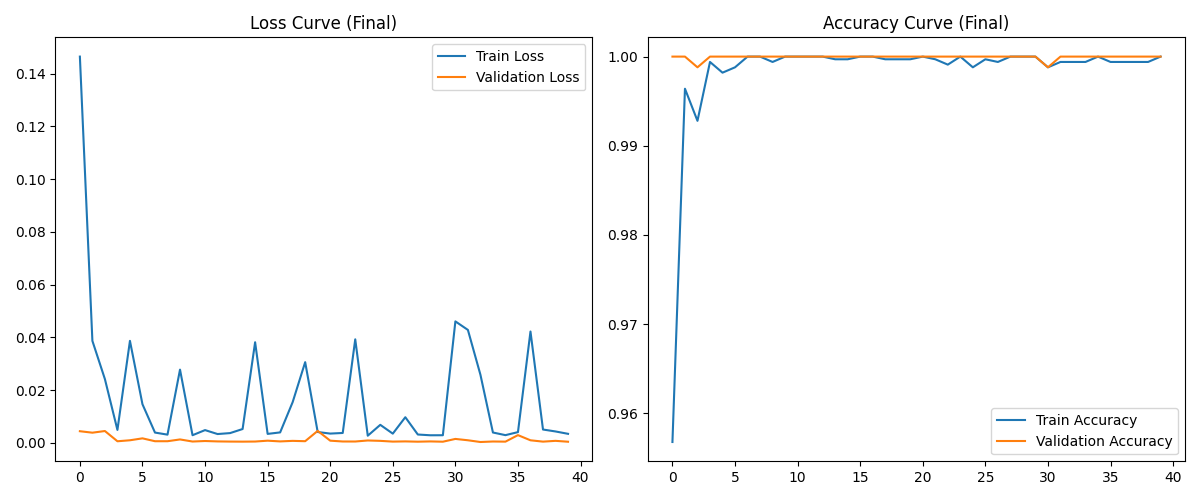
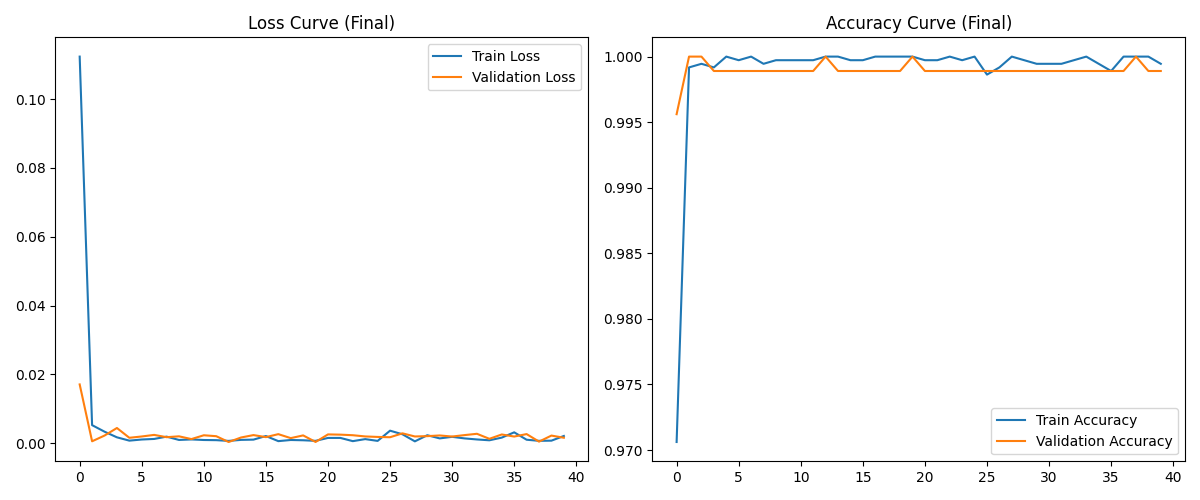
fix

diff --git a/Self-Supervised-Learning/main.py b/Self-Supervised-Learning/main.py
@@ -248,7 +248,7 @@ if __name__ == "__main__":
     model_r1, path_r1, hist_r1 = run_cnn_training(X_train, y_train, "CNN_Step1_RuleBased")
     
     # Eval Round 1
-    model_r1.load_state_dict(torch.load(path_r1, map_location=device))
+    model_r1.load_state_dict(torch.load(path_r1, map_location=device, weights_only=True))
     test_loader = make_loader(X_test, y_test, False)
     
     preds, gts = [], []
@@ -325,7 +325,7 @@ if __name__ == "__main__":
     # ========================================================
     print("\n================ Part 5: Final Test (Round 2 Model) =================")
 
-    model_final.load_state_dict(torch.load(path_final, map_location=device))
+    model_final.load_state_dict(torch.load(path_final, map_location=device, weights_only=True))
 
     preds, gts = [], []
     with torch.no_grad():
